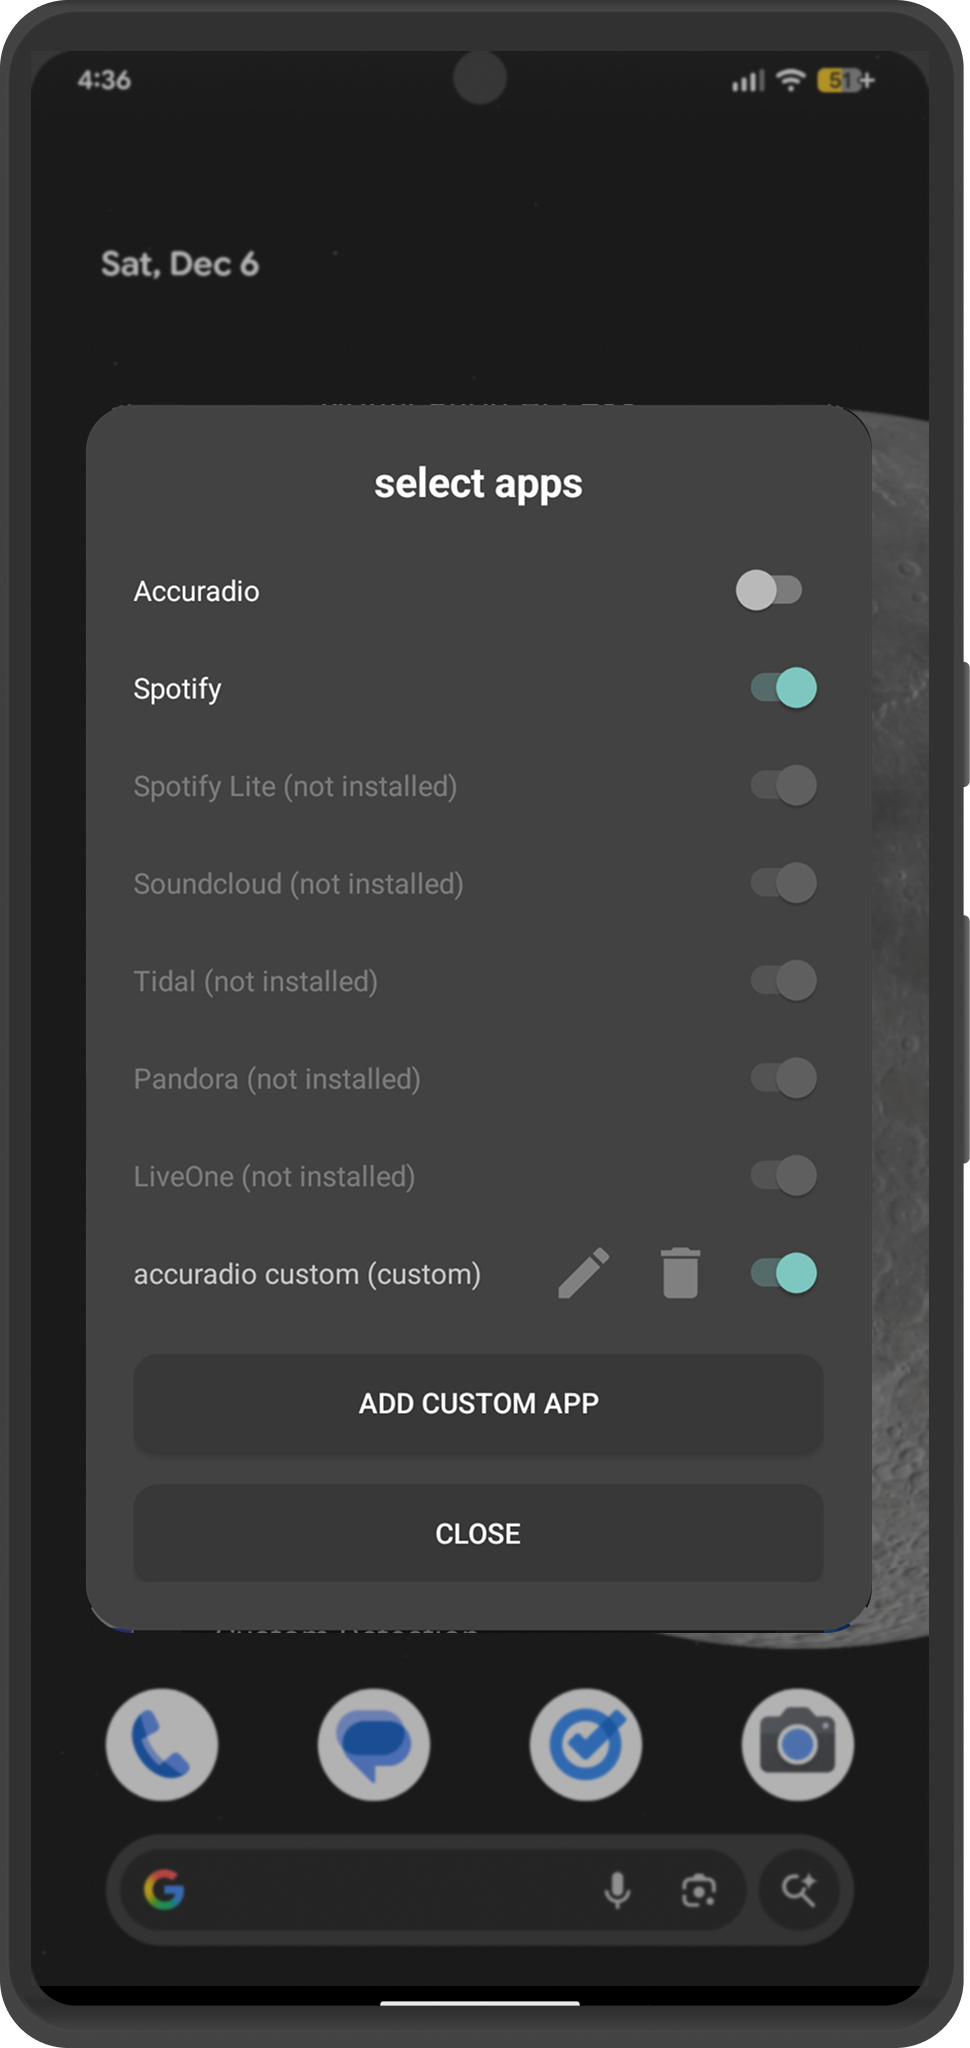
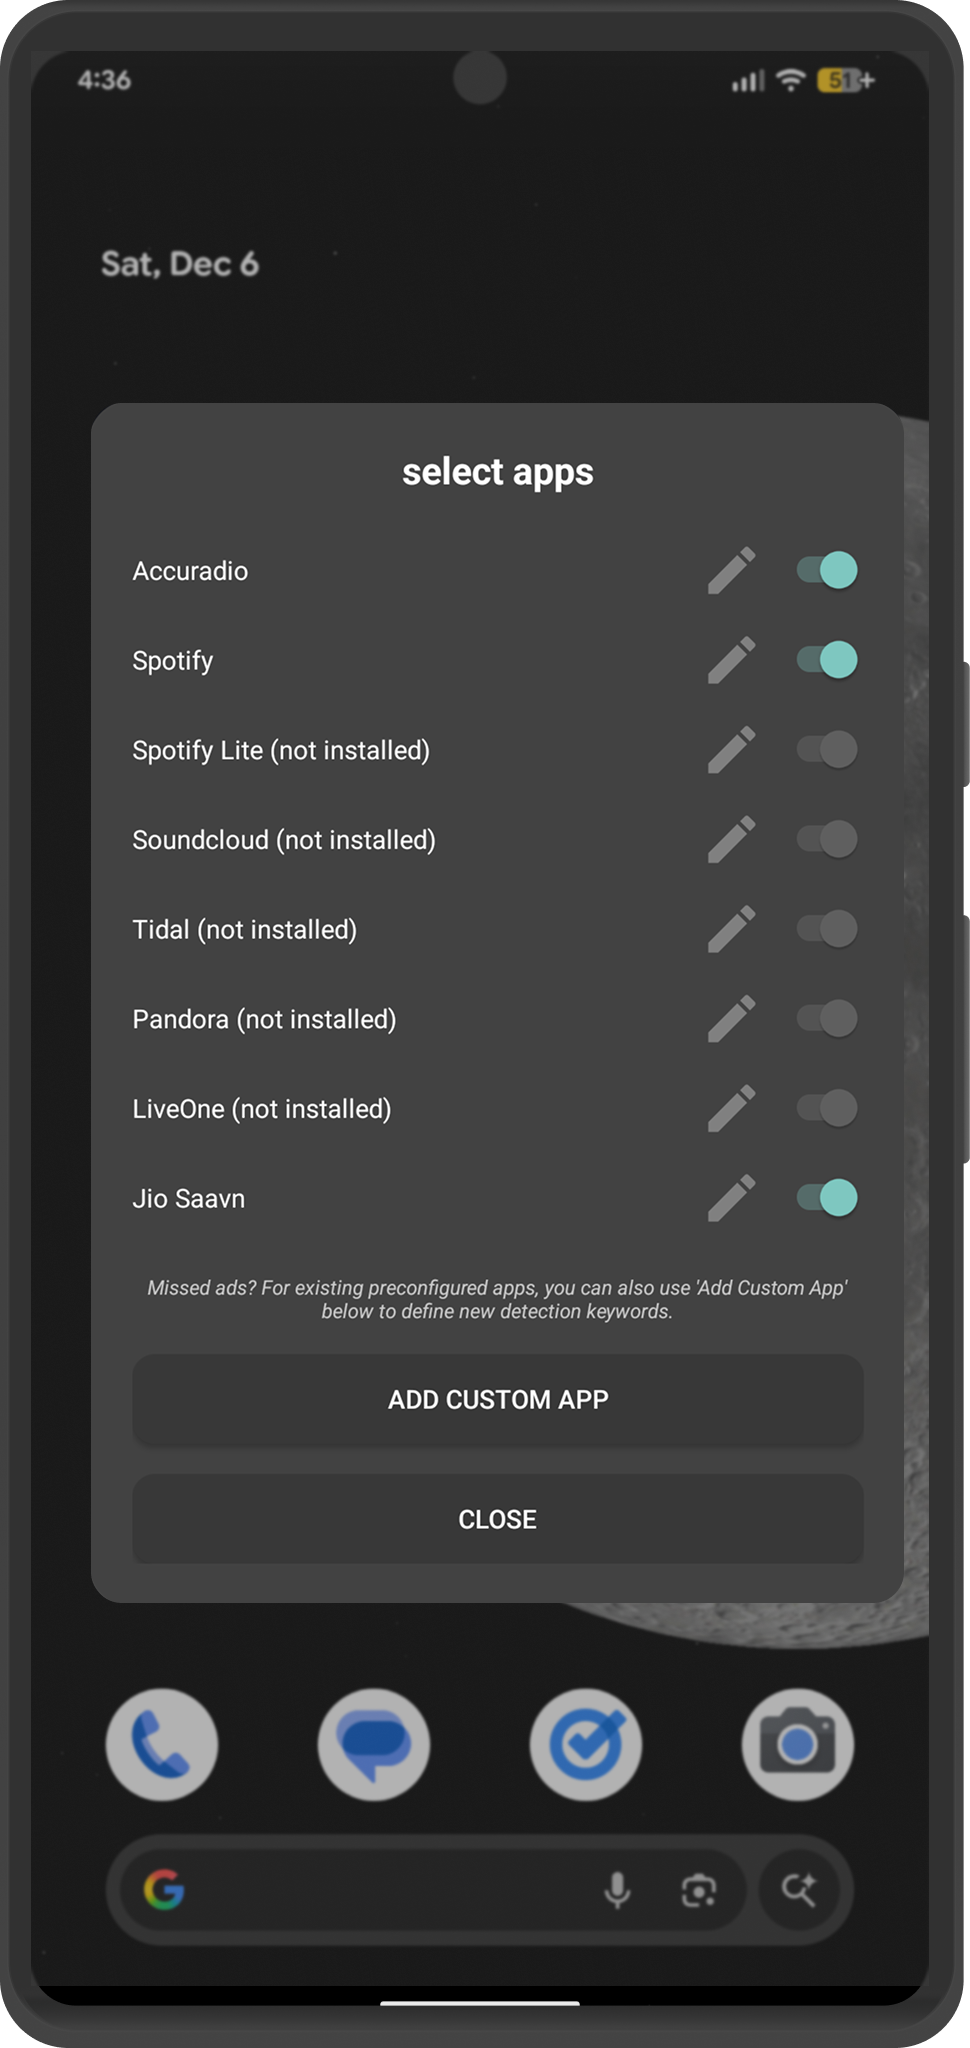
feat: changes for v0.8.0 release.

diff --git a/README.md b/README.md
@@ -1,6 +1,6 @@
 # Ad-silence
 
-> Remove ads in Accuradio, Spotify, Tidal, Pandora or Any App.
+> Silence ads in Accuradio, Spotify, Pandora, Soundcloud or Any App.
 
 <p align="left">
   <br/>
@@ -18,19 +18,19 @@
 
 ## Features
 
-- Block ads on `Accuradio`, `Spotify` (full & lite versions), `Tidal` & `Pandora` or **`Any app` with custom App Option**
-- Minimal UI
+- Mute ads on `Accuradio`, `Spotify` (full & lite versions), `Pandora`, `Soundcloud` or **`Any app` with custom App Option**
+- Minimal UI, Lightweight & App size **less than 150KB**
 - Debug log directly integrated in the app to help with easier debugging
-- App size **less than 150KB**
-- Configure which apps to remove ads in
-- Open source
+- Supports casting (google chromecast..etc) 
+- **Fully Configurable**: Edit preloaded apps, add new custom apps, and adjust keywords or unmute delays for precise control.
 - No inapp purchases or ads
+- Open source
 
 ## Supported apps?
 
 - **Custom Apps Support**: Ability to add, edit, and delete custom apps to be silenced.
 
-> With the release of v0.7.0 and above, Ad-silence now supports custom apps with ability to add, edit and provide keywords specific to the app. 
+> With the release of v0.7.0 and above, Ad-silence now supports custom apps with ability to add, edit, unmute delay and provide keywords specific to the app. 
 
 |     app      | support |
 |:------------:| :-----: |
@@ -40,7 +40,8 @@
 |  Soundcloud  |   yes   |
 |    Tidal     |   yes   |
 |   Pandora    |   yes   |
-| **Any app**  | yes |
+|   JioSaavn  |   yes   |
+| **Any app**  |   yes   |
 
 ## Custom Apps
 
@@ -80,6 +81,10 @@ You have to enable the debug log in the app to see the logs.
 - See all the logs of the service (notification listener) in the app .
 - See all the notifications parsed by the service.
 - Each debug logs is timestamped, gives out the parsing decision it made (like what it matched against and whether it matched or not).
+- View **Casting Information** specific to the current session:
+  - **Endpoint**: Shows the active router name and volume.
+  - **Session**: Displays the media controller package, playback type (Remote/Local), volume control mode, and volume levels.
+- **Test Mute/Unmute**: A button to manually toggle mute on the active media stream (works for both local playback and casting sessions) to verify if the app can control the volume.
 
 You can keep the debug log enabled always, it will not affect the performance of the app, only the recent 100 logs are stored in memory.
 
@@ -96,6 +101,7 @@ You can keep the debug log enabled always, it will not affect the performance of
     <img src="./sample/3.png" alt="about" height="400px" width="auto"/> 
     <img src="./sample/4.png" alt="custom apps" height="400px" width="auto"/> 
     <img src="./sample/5.png" alt="edit custom apps" height="400px" width="auto"/> 
+    <img src="./sample/6.png" alt="edit custom apps" height="400px" width="auto"/> 
   </p>
 
 ## How this works

diff --git a/Changelog/README.md b/Changelog/README.md
@@ -5,6 +5,31 @@ All notable changes to this project will be documented in this file.
 The format is based on [Keep a Changelog](https://keepachangelog.com/en/1.0.0/),
 and this project adheres to [Semantic Versioning](https://semver.org/spec/v2.0.0.html).
 
+## [v0.8.0] - (Jan 10, 2026)
+
+**_Stable - requires android 5 or higher_**
+
+## Added
+
+- **Casting Support**: Support for casting (Spotify, Jio Saavn, etc.) with improved mute logic.
+- **Settings Menu**: Centralized settings for mute behavior, casting, and other options.
+- **Edit Preloaded Apps**: Ability to edit preloaded apps and set custom unmute delays.
+- **Mute Logic**: Option to mute only the music stream instead of the entire device.
+- **MIUI Support**: Fixes for autostart permissions and persistent notification listener service.
+- **App Support**: Added native support for **Jio Saavn**.
+- **Fastlane Validation**: Added validation steps to ensure valid fastlane configuration.
+
+## Updates
+
+- **Default Music Stream Mute**: The default mute behavior now specifically targets the music stream (leaving calls/alarms intact), replacing the previous system-decided behavior. Users can control this behavior via options in the settings menu.
+- **Force Mute**: Now force-mutes the music stream, ensuring it stays muted even if the user presses the volume button to unmute. Users can control this behavior via the new option in the settings menu.
+- **Select Apps**: Removed "Add Custom App" from main screen; integrated into the "Select Apps" view.
+
+## Fixes
+
+- Fixed casting mute logic when settings are disabled.
+- Addressed autostart issues on MIUI devices.
+
 ## [v0.7.1] - (Dec 13, 2025)
 
 **_Stable - requires android 5 or higher_**
